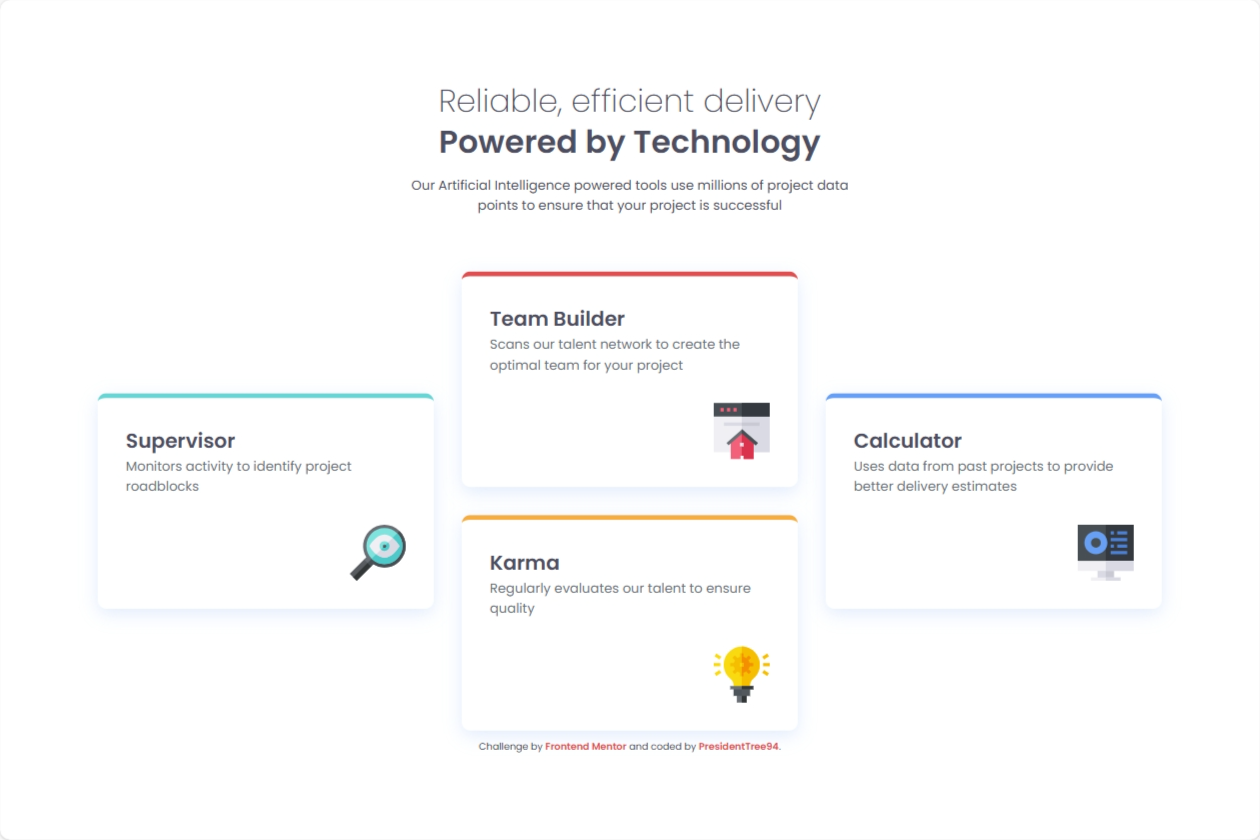
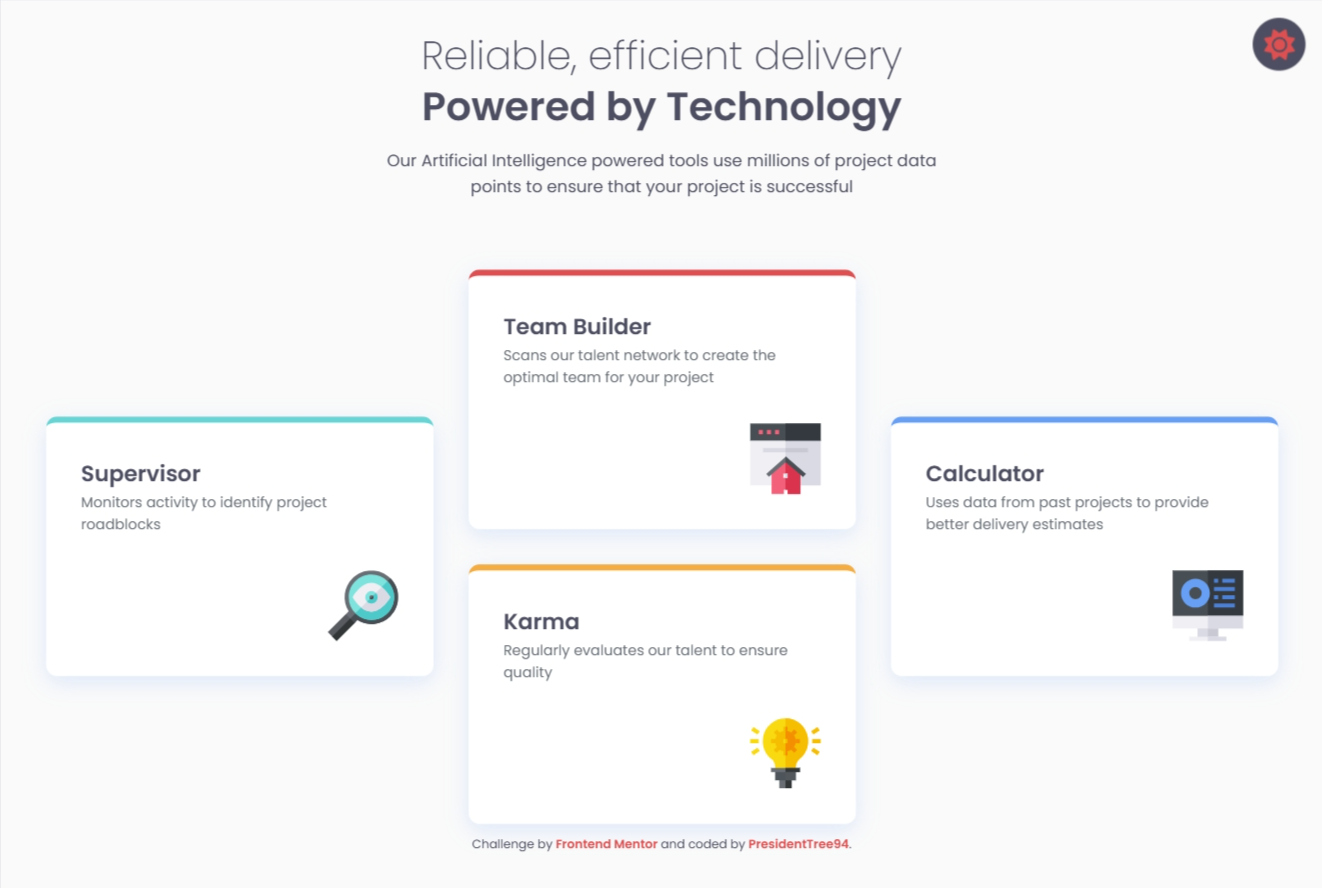
Add files via upload

diff --git a/alt-mode/toggle.js b/alt-mode/toggle.js
@@ -1,0 +1,54 @@
+//Find the toggle button and generate an empty SVG
+const toggleButton = document.getElementById("toggle");
+const icon = document.createElementNS("http://www.w3.org/2000/svg", "svg");
+icon.setAttribute("xmlns", "http://www.w3.org/2000/svg");
+const path = document.createElementNS("http://www.w3.org/2000/svg", "path");
+icon.appendChild(path);
+toggleButton.appendChild(icon);
+
+//Constants for the local storage key, mode class, and icons
+const ALT_MODE_KEY = "alt-mode";
+const ALT_MODE_CLASS = "altMode";
+const MOON_ICON = {
+  viewBox: "0 0 384 512",
+  path: "M223.5 32C100 32 0 132.3 0 256S100 480 223.5 480c60.6 0 115.5-24.2 155.8-63.4c5-4.9 6.3-12.5 3.1-18.7s-10.1-9.7-17-8.5c-9.8 1.7-19.8 2.6-30.1 2.6c-96.9 0-175.5-78.8-175.5-176c0-65.8 36-123.1 89.3-153.3c6.1-3.5 9.2-10.5 7.7-17.3s-7.3-11.9-14.3-12.5c-6.3-.5-12.6-.8-19-.8z"
+};
+const SUN_ICON = {
+  viewBox: "0 0 512 512",
+  path: "M361.5 1.2c5 2.1 8.6 6.6 9.6 11.9L391 121l107.9 19.8c5.3 1 9.8 4.6 11.9 9.6s1.5 10.7-1.6 15.2L446.9 256l62.3 90.3c3.1 4.5 3.7 10.2 1.6 15.2s-6.6 8.6-11.9 9.6L391 391 371.1 498.9c-1 5.3-4.6 9.8-9.6 11.9s-10.7 1.5-15.2-1.6L256 446.9l-90.3 62.3c-4.5 3.1-10.2 3.7-15.2 1.6s-8.6-6.6-9.6-11.9L121 391 13.1 371.1c-5.3-1-9.8-4.6-11.9-9.6s-1.5-10.7 1.6-15.2L65.1 256 2.8 165.7c-3.1-4.5-3.7-10.2-1.6-15.2s6.6-8.6 11.9-9.6L121 121 140.9 13.1c1-5.3 4.6-9.8 9.6-11.9s10.7-1.5 15.2 1.6L256 65.1 346.3 2.8c4.5-3.1 10.2-3.7 15.2-1.6zM160 256a96 96 0 1 1 192 0 96 96 0 1 1 -192 0zm224 0a128 128 0 1 0 -256 0 128 128 0 1 0 256 0z"
+};
+
+//Sets the icon to represent the mode depending on data-default
+function setIcon(isAltMode) {
+  const defaultMode = toggleButton.dataset.default;
+  const iconData = defaultMode === "moon" ? isAltMode ? SUN_ICON : MOON_ICON : 
+  defaultMode === "sun" ? isAltMode ? MOON_ICON : SUN_ICON : null;
+  icon.setAttribute("viewBox", iconData.viewBox);
+  path.setAttribute("d", iconData.path);
+}
+
+//Initializes the mode, sets the current one
+function initMode() {
+  const altMode = localStorage.getItem(ALT_MODE_KEY) === "true";
+
+  if (altMode) {
+    document.body.classList.add(ALT_MODE_CLASS);
+  } else {
+    document.body.classList.remove(ALT_MODE_CLASS);
+  }
+
+  setIcon(altMode);
+}
+
+//Toggles the mode, temporarily disabling transitions (except #toggle)
+function toggleMode() {
+  document.body.classList.add("disable-transitions");
+  const altMode = document.body.classList.toggle(ALT_MODE_CLASS);
+  localStorage.setItem(ALT_MODE_KEY, altMode);
+  setIcon(altMode);
+  void document.body.offsetWidth;
+  setTimeout(() => { document.body.classList.remove("disable-transitions"); }, 10);
+}
+
+initMode();
+toggleButton.addEventListener("click", toggleMode);

diff --git a/index.html b/index.html
@@ -4,14 +4,16 @@
   <meta charset="UTF-8">
   <meta name="viewport" content="width=device-width, initial-scale=1.0">
   <link rel="icon" type="image/png" sizes="32x32" href="./images/favicon-32x32.png">
+  <link rel="stylesheet" href="style.css">
+  <link rel="stylesheet" href="alt-mode/toggle-style.css">
   <link rel="preconnect" href="https://fonts.googleapis.com">
   <link rel="preconnect" href="https://fonts.gstatic.com" crossorigin>
   <link href="https://fonts.googleapis.com/css2?family=Poppins:ital,wght@0,100;0,200;0,300;0,400;0,500;0,600;0,700;0,800;0,900;1,100;1,200;1,300;1,400;1,500;1,600;1,700;1,800;1,900&display=swap" rel="stylesheet">
-  <link rel="stylesheet" href="style.css">
   <title>Frontend Mentor | Four card feature section</title>
 </head>
 <body>
   <div class="container">
+    <div id="toggle" data-default="sun"></div>
     <main>
       <section>
         <header>
@@ -47,5 +49,6 @@
       </footer>
     </main>
   </div>
+  <script src="alt-mode/toggle.js"></script>
 </body>
 </html>

diff --git a/style.css b/style.css
@@ -10,6 +10,13 @@
   --gridMaxWidth: 22rem; /*384px*/
 }
 
+.altMode {
+  --white: rgb(0, 0, 0);
+  --seaSalt: rgb(5, 5, 5);
+  --davysGray: rgb(155, 162, 169);
+  --dimGray: rgb(126, 128, 147);
+}
+
 * {
   margin: 0;
   padding: 0;
@@ -32,6 +39,14 @@ body {
   justify-content: center;
   align-items: center;
   overflow: hidden;
+}
+
+#toggle {
+  background-color: var(--davysGray);
+}
+
+svg {
+  fill: var(--indianRed);
 }
 
 main {
@@ -82,6 +97,7 @@ article div {
   padding: 2rem; /*32px*/
   border-radius: 0.625rem; /*10px*/
   display: grid;
+  background-color: var(--white);
   box-shadow: 0 6px 20px rgba(84, 158, 242, 0.2);
   max-width: var(--gridMaxWidth);
 }

diff --git a/alt-mode/toggle-style.css b/alt-mode/toggle-style.css
@@ -1,0 +1,25 @@
+#toggle {
+  position: fixed;
+  top: 1rem;
+  right: 1rem;
+  border-radius: 100%;
+  display: flex;
+  justify-content: center;
+  align-items: center;
+  height: 3rem;
+  width: 3rem;
+  z-index: 1;
+  transition: transform 0.3s ease;
+}
+
+#toggle:hover {
+  cursor: pointer;
+}
+
+#toggle:active {
+  transform: scale(0.9);
+}
+
+svg {
+  height: 1.75rem;
+}

diff --git a/alt-mode/README.md b/alt-mode/README.md
@@ -1,0 +1,16 @@
+# Instructions for Light/Dark Mode
+These are the instructions for how to use Light/Dark Mode in a project. The script creates a SVG, `MOON_ICON` or `SUN_ICON`, and uses it to initialize the `#toggle` button. The default SVG is determined by the value set in the `data-default` attribute. The user can select the button to toggle the mode, which toggles `.altMode` on `body`, and the mode is saved in local storage to persist.
+
+## Requirements
+- The "alt-mode" folder and all its contents:
+  - toggle-style.css
+  - toggle.js
+
+## Steps
+1. Add a `<link>` to the HTML to the path of `toggle-style.css`, under the initial stylesheet.
+2. Add a `<script>` to the HTML to the path of `toggle.js`, just before the closing tag of the `body`.
+3. Add `<div id="toggle"></div>` to the HTML, where it can be placed in the top-right of the page.
+4. Add a `data-default` attribute to `#toggle`, and set it to "sun" or "moon."
+5. Assign colors to `#toggle` and the `svg` in the CSS.
+6. Add `.altMode` to the CSS and redefine the CSS color variables.
+7. Add `.disable-transitions *:not(#toggle) { transition: none !important; }` to the CSS if transitions conflict during mode switches.

diff --git a/README.md b/README.md
@@ -7,6 +7,9 @@ As part of the [Building responsive layouts](https://www.frontendmentor.io/learn
 ### Screenshot
 ![Screenshot of desktop version](images/screenshot.png)
 
+### Modifications
+I added Dark Mode to the website. The `alt-mode` folder contains a separate README explaining how it works. The button is located in the top-right corner of the page and scales down slightly when selected.
+
 ### Links
 - Solution URL: [Frontend Mentor Solution Page](https://www.frontendmentor.io/solutions/four-card-feature-section-VILMXR5SVO)
 - Live Site URL: [GitHub Page](https://presidenttree94.github.io/four-card-feature-section/)
